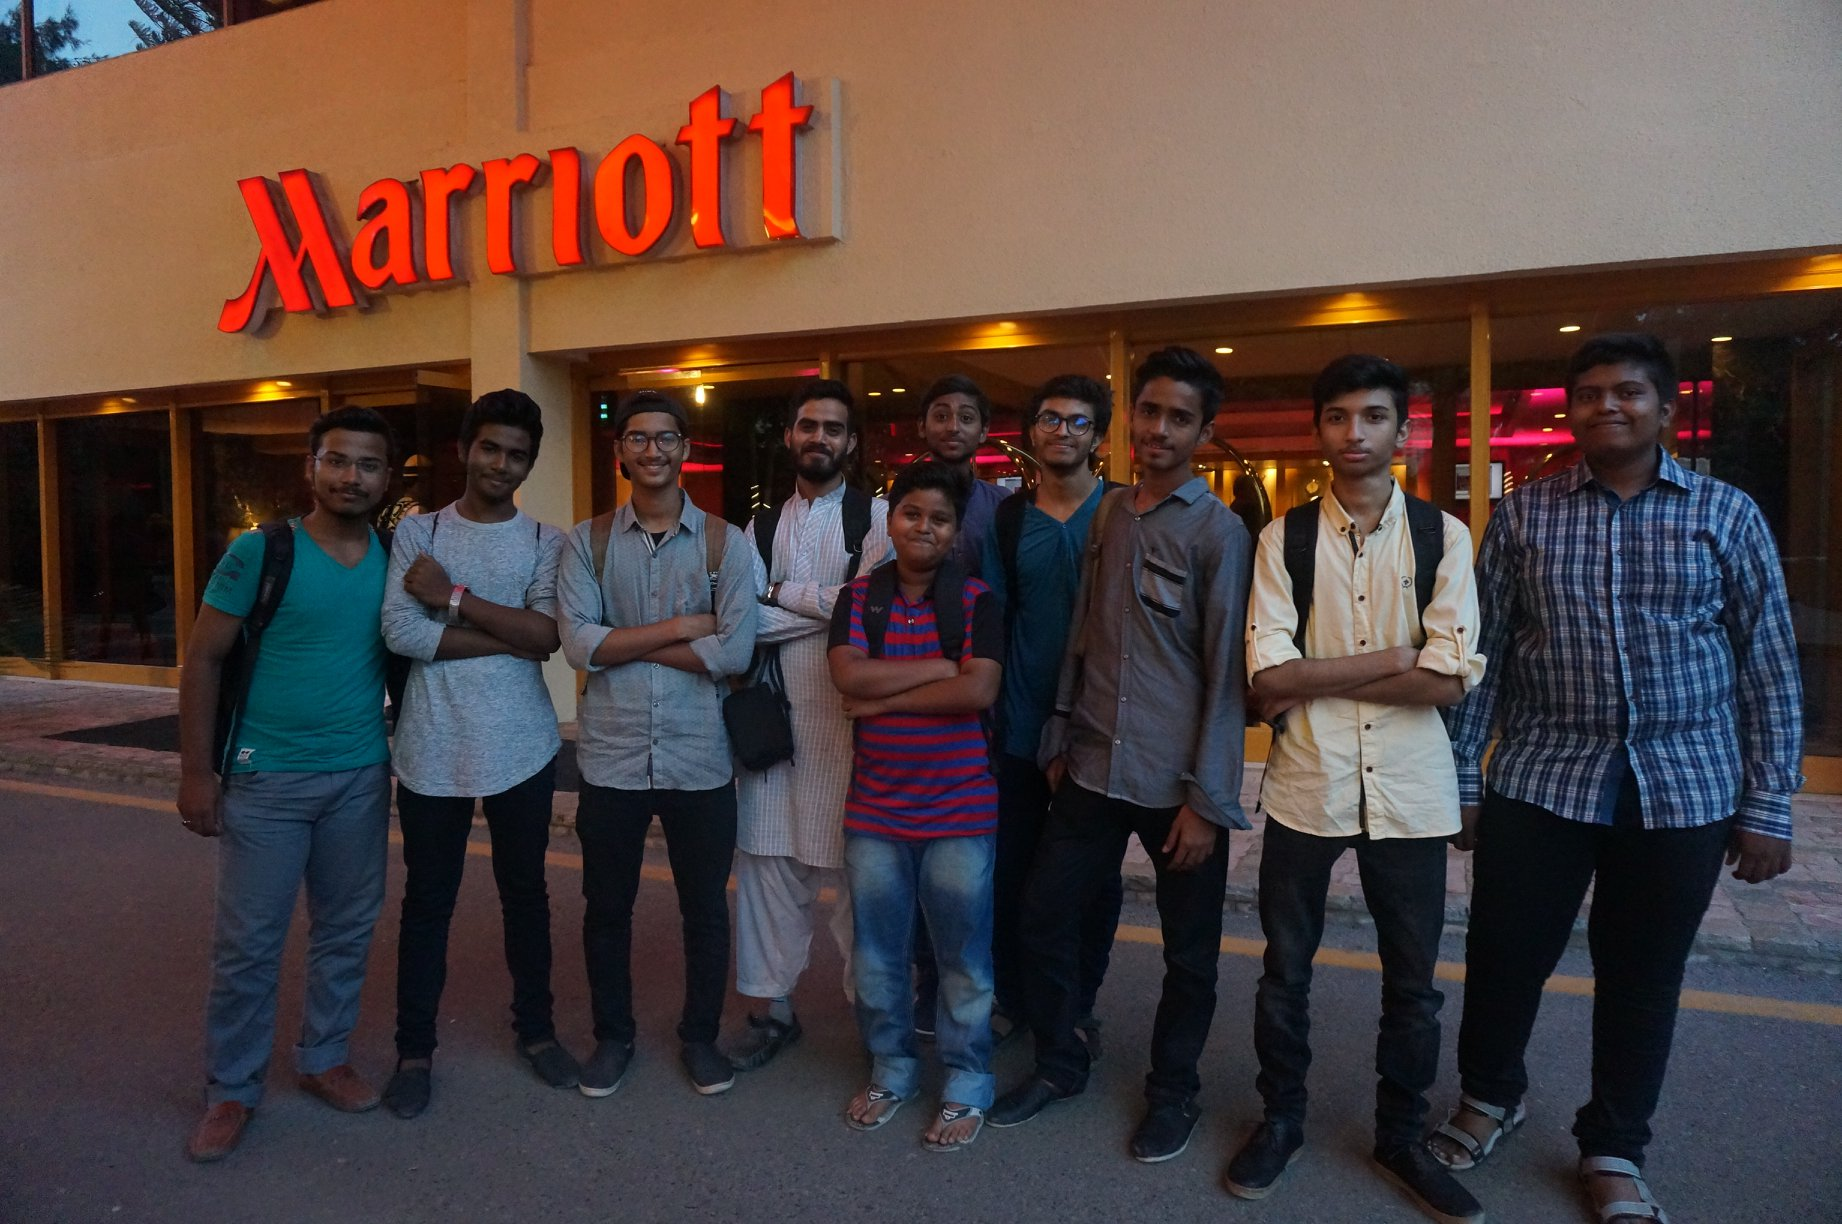
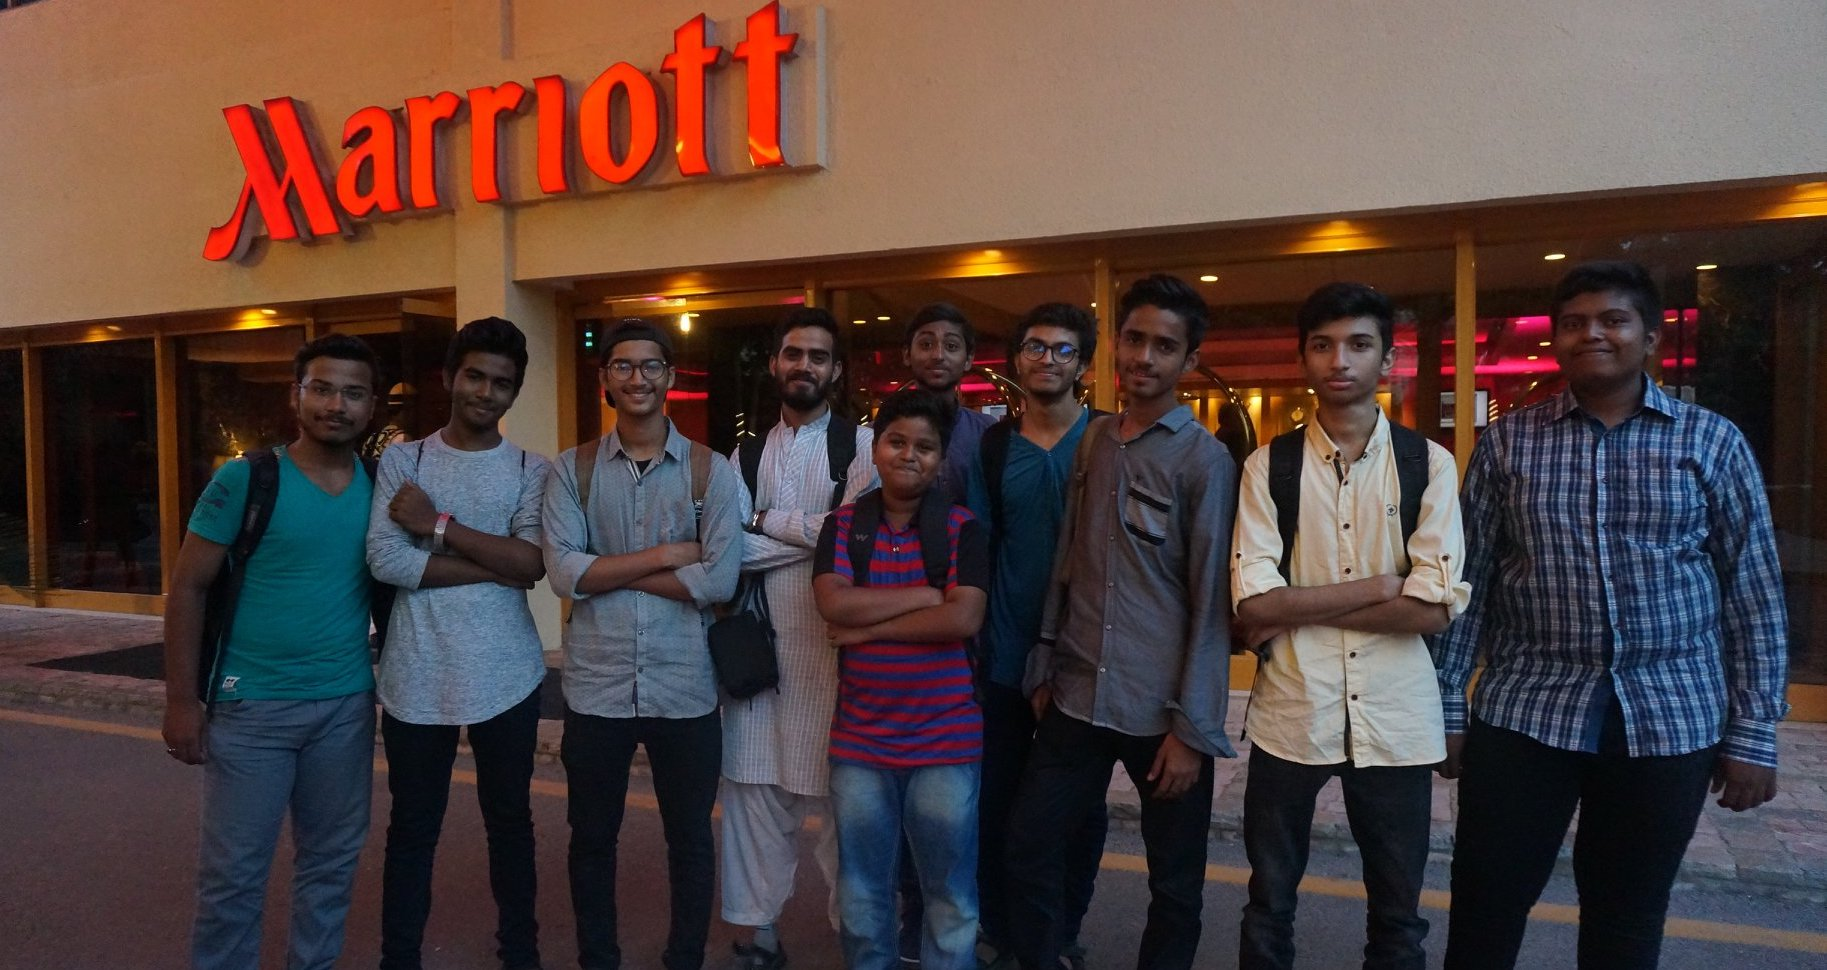
added all components

diff --git a/src/Components/Events/Events.js b/src/Components/Events/Events.js
@@ -1,7 +1,7 @@
 import React from 'react'
 import './Events.css'
 import { Event_Main_Heading, Blog_1_URL, Blog_2_URL, Blog_3_URL, Blog_4_URL, Blog_5_URL, Event_1_Heading, Event_2_Heading, Event_3_Heading, Event_4_Heading, Blog_4_Heading, Blog_5_Heading } from '../../Utils/Constants.js'
-import Event1 from '../../images/event.jpg'
+import Event1 from '../../images/event4.jpg'
 import Event2 from '../../images/event1.jpg'
 import Event3 from '../../images/event2.jpg'
 import Event4 from '../../images/event3.jpg'
